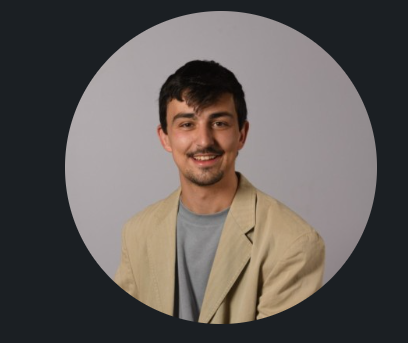
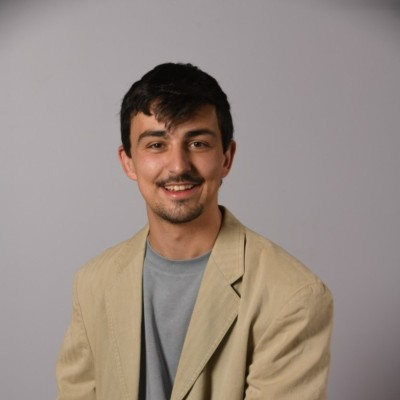
New headshot photo and update Reading block with Premier League book
Made-with: Cursor

diff --git a/index.html b/index.html
@@ -123,8 +123,9 @@
           <div class="currently-card">
             <p class="currently-card-label">Reading</p>
             <p class="currently-card-text">
-              Pearl &amp; Mackenzie on causality, plus anything I can get on
-              NBA load management protocols.
+              <em>How to Win the Premier League</em> by Ian Graham: how
+              data science reshaped elite football recruiting and tactics.
+              Pearl &amp; Mackenzie on causality too.
             </p>
           </div>
           <div class="currently-card">

diff --git a/portable-profile.html b/portable-profile.html
@@ -166,7 +166,7 @@
         height: 100%;
         display: block;
         object-fit: cover;
-        object-position: center 15%;
+        object-position: center 20%;
       }
 
       .eyebrow {

diff --git a/styles.css b/styles.css
@@ -177,7 +177,7 @@ time {
   height: 100%;
   display: block;
   object-fit: cover;
-  object-position: center 15%;
+  object-position: center 20%;
 }
 
 .eyebrow {
